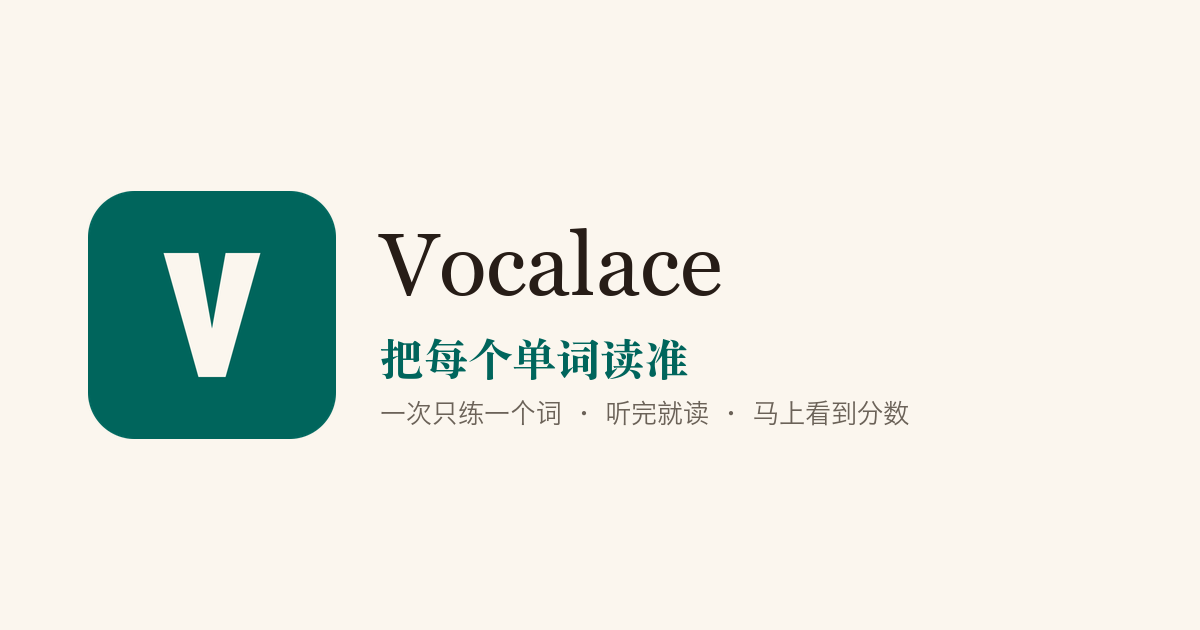
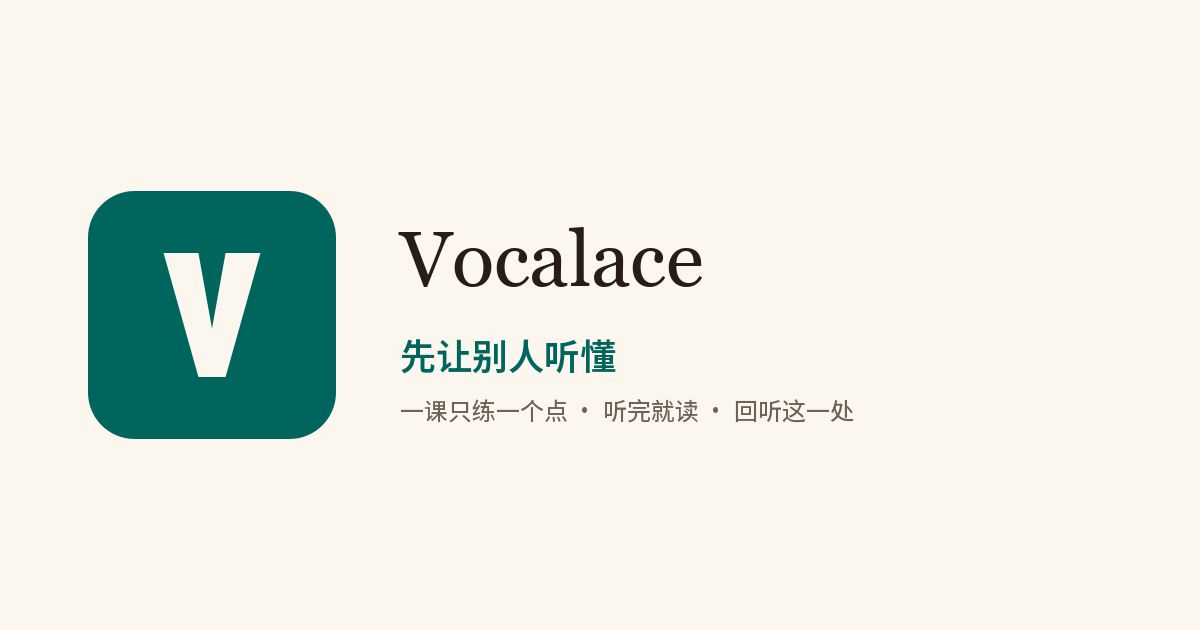
Update contact information and refine course content across multiple files. Change email addresses to reflect the new domain, remove outdated audio files, and enhance lesson descriptions for clarity. Adjust footer content to improve navigation and user experience.

Changed region(s): [[0.3083, 0.3619, 0.6167, 0.4825], [0.3392, 0.6333, 0.7708, 0.6937], [0.3083, 0.5429, 0.5858, 0.6032]]

diff --git a/src/content/docs/appendix/a-order.md b/src/content/docs/appendix/a-order.md
@@ -1,28 +1,74 @@
 ---
 title: '附录 A · 建议学习顺序'
-description: '十周学习地图：按周选重点，点进对应正课练'
+description: '十周里每周上哪几课。课名点进去就能练。'
 ---
 
-用法：按周选重点，点进对应正课练；跟不上就砍量，不换目标。
+先看 [开课说明](/0-intro/)。下面按周列出要上的课，一周里从上往下做，做完再进下一周。一课只练一个点。
 
-## 怎么用这张地图
+每天怎么练，看 [每天先跟再录](/12-practice/12-2/day/)：先跟一句，再录同一句，只改一处。从第 3 周起，还没分开的音记到 [错音表](/10-fluency/10-3/list/)。不确定卡在哪个音，用 [10.2 自查 /æ/](/10-fluency/10-2/ae/) 这一组对一下，再决定记哪一行。
 
-1. 每周只盯「本周重点」列里的点；正课入口点进去做完最小练习即可。
-2. 每天仍遵守 [12.2 每天先跟再录](/12-practice/12-2/day/)（约 10 分跟读 + 5 分录音对比）。
-3. 从第 3 周起维护 [个人错音表](/10-fluency/10-3/list/)；勾选来自 [10.2 诊断清单](/10-fluency/10-2/ae/)。
-4. 节奏吃紧时：保留「对比词 + 一句语流 + 录音」，场景/语法课可顺延一周。
+这一周做不完：音和句子的课留下，场景和语法的课挪到下一周。不换正在练的那个点。
 
-## 十周总表
+## 第 1–2 周 · 最常听错的音
 
-| 阶段 | 重点（一个点一次练） | 建议正课入口 |
-|------|----------------------|--------------|
-| 第 1–2 周 | /θ/ /ð/；/v/–/w/；/æ/–/e/；/ɪ/–/iː/；/r/ | [1.5 θ–s](/1-phonetics/1-5/th-s/) · [1.5 ð–d](/1-phonetics/1-5/th-d/) · [1.5 v–w](/1-phonetics/1-5/v-w/) · [1.1 æ–e](/1-phonetics/1-1/ae-vs-e/) · [1.1 iː–ɪ](/1-phonetics/1-1/i-vs-ih/) · [1.5 l–r](/1-phonetics/1-5/l-r/) |
-| 第 3–4 周 | /ə/、/ɝː/、闪音 /t̬/、/oʊ/、/ʊ/–/uː/；连读与 wanna/gonna | [1.2 ə](/1-phonetics/1-2/schwa/) · [1.2 ɝː](/1-phonetics/1-2/er/) · [1.7 T 闪音](/1-phonetics/1-7/flap/) · [1.3 oʊ](/1-phonetics/1-3/ow/) · [1.1 ʊ–uː](/1-phonetics/1-1/u-vs-uu/) · [3.1 口语缩略](/3-sentences/3-1/reduced/) · [4.1 听出缩略](/4-listening/4-1/reduced/) |
-| 第 5–6 周 | 句子重音与语调；精听缩略与闪音 | [3.2 陈述疑问](/3-sentences/3-2/contour/) · [3.2 重音改意思](/3-sentences/3-2/stress/) · [4.2 闪音听辨](/4-listening/4-2/flap/) · [4.3 精听四步](/4-listening/4-3/flow/) · [3.3 影子跟读](/3-sentences/3-3/shadow/) |
-| 第 7–8 周 | 冠词/单复数；美式搭配；数字时间 | [5.1 a/the](/5-grammar/5-1/a-the/) · [5.2 可数不可数](/5-grammar/5-2/count/) · [7.1 美式用词](/7-expressions/7-1/place/) · [7.2 take a](/7-expressions/7-2/take/) · [7.4 日期时间](/7-expressions/7-4/date/) |
-| 第 9–10 周 | 生活场景对话；复述与即兴 | [8.1 购物点餐问路](/8-scenarios/8-1/shop/) · [12.1 一条龙](/12-practice/12-1/chain/) · [9.2 复述](/9-passages/9-2/points/) · [9.3 即兴](/9-passages/9-3/time/) |
-| 持续 | 错音表 + 示范对照纠音 + 影子跟读；可加英美听辨意识 | [10.3 错音表](/10-fluency/10-3/list/) · [10.4 示范对照](/10-fluency/10-4/model/) · [10.4 镜子录音](/10-fluency/10-4/mirror/) · [11 一段只跟一种](/11-us-uk/stay/) · [12.3 进步标准](/12-practice/12-3/pairs/) |
+先把这几个音分开。think 不要像 sink，this 不要像 dis，very 的 v 要碰到牙齿。
 
-## 开课前先读
+- [think 和 sink：/θ/ vs /s/](/1-phonetics/1-5/th-s/)
+- [this 和 dis：/ð/ vs /d/](/1-phonetics/1-5/th-d/)
+- [very 和 wery：/v/ vs /w/](/1-phonetics/1-5/v-w/)
+- [cat 和 bed：/æ/ vs /e/](/1-phonetics/1-1/ae-vs-e/)
+- [ship 和 sheep：/iː/ vs /ɪ/](/1-phonetics/1-1/i-vs-ih/)
+- [right 和 light：/l/ vs /r/](/1-phonetics/1-5/l-r/)
 
-1. [开课说明](/0-intro/)（学什么、一课一个点、自检三条）
+## 第 3–4 周 · 轻读、卷舌、闪音
+
+about 的 a 要轻，bird 收成一个卷舌音，water 中间的 t 是闪音。go 要滑出去，book 不要拉成 food。然后能听出、也能说出 wanna 和 gonna。
+
+- [about 里那个轻短的 /ə/](/1-phonetics/1-2/schwa/)
+- [bird：/ɝː/](/1-phonetics/1-2/er/)
+- [water 的 T 闪音](/1-phonetics/1-7/flap/)
+- [go：/oʊ/](/1-phonetics/1-3/ow/)
+- [book 和 food：/ʊ/ vs /uː/](/1-phonetics/1-1/u-vs-uu/)
+- [口语里的 wanna、gonna](/3-sentences/3-1/reduced/)
+- [听的时候认出这些缩略](/4-listening/4-1/reduced/)
+
+## 第 5–6 周 · 重音、语调、精听
+
+实词要站出来，问句和陈述句的尾音不一样。听的时候能抓住闪音，再整段跟。
+
+- [陈述往下、疑问往上](/3-sentences/3-2/contour/)
+- [重音一换，意思就变](/3-sentences/3-2/stress/)
+- [听出 water 里的闪音](/4-listening/4-2/flap/)
+- [一小段按四步精听](/4-listening/4-3/flow/)
+- [影子跟读](/3-sentences/3-3/shadow/)
+
+## 第 7–8 周 · 冠词、美式说法、时间
+
+开口时知道用 a 还是 the，可数的加不加 -s。生活里的词用美式说法，日期和时间按美式读。
+
+- [对方还不知道，用 a](/5-grammar/5-1/a-the/)
+- [先看这个名词能不能数](/5-grammar/5-2/count/)
+- [电梯、人行道这些美式词](/7-expressions/7-1/place/)
+- [洗澡、休息用 take](/7-expressions/7-2/take/)
+- [日期和时间怎么读](/7-expressions/7-4/date/)
+
+## 第 9–10 周 · 场景、复述、即兴
+
+购物、点餐、问路分开练，再连着做一遍。然后听完能说出要点，不看稿也能说四句。
+
+- [问价、问码、结账](/8-scenarios/8-1/shop/)
+- [点餐、忌口、带走还是店里](/8-scenarios/8-1/order/)
+- [问路，并用自己的话重复](/8-scenarios/8-1/ask/)
+- [五个场景接起来](/12-practice/12-1/chain/)
+- [听完只说三个要点](/9-passages/9-2/points/)
+- [四句说完就停](/9-passages/9-3/time/)
+
+## 十周之后一直做
+
+错的音留在表上，对着单词录音只改一处。一段练习只跟一种口音。过关看对比词分没分开，不看感觉。
+
+- [错音记成一行](/10-fluency/10-3/list/)
+- [对着单词录音，只改一处](/10-fluency/10-4/model/)
+- [镜子、录音、跟读各管一件](/10-fluency/10-4/mirror/)
+- [一段练习只跟美式](/11-us-uk/stay/)
+- [对比词记下对了几对](/12-practice/12-3/pairs/)

diff --git a/src/content/docs/3-sentences/3-2/stress.md b/src/content/docs/3-sentences/3-2/stress.md
@@ -1,16 +1,16 @@
 ---
 title: "重音换词，意思就换"
 lesson: "第 3.2.2 课"
-description: "整句每个词一样响，对方听成另一个意思？本课用同一句，把重音换到 I、say、he、stole 上，各说一层意思。"
+description: "整句每个词一样响，对方听成另一个意思？本课用同一句，把重音换到 I、say、he、locked 上，各说一层意思。"
 ---
 
 语法没错，对方还是会问你到底在否定哪一件事。英语用一个词更响、更长，标出「我要更正的是这个」。每个词一样响，焦点就没了。
 
-这课只练一句：*I didn't say he stole the money.* 重音落在哪个词，否定的就是那个词。词里哪一拍重，见 [1.6.1](/1-phonetics/1-6/stress/)。陈述句里这个重音先抬一点再落下，不要一路升上去，那是 [上一课](/3-sentences/3-2/contour/) 的问句。
+这课只练一句：*I didn't say he locked the door.* 重音落在哪个词，否定的就是那个词。词里哪一拍重，见 [1.6.1](/1-phonetics/1-6/stress/)。陈述句里这个重音先抬一点再落下，不要一路升上去，那是 [上一课](/3-sentences/3-2/contour/) 的问句。
 
 句子没有整句录音，也没有「四种强调版」的录音。你自己换重音。
 
-这课目标：不看字，听自己的录音，能说出这一遍否定的是「谁说的」「说没说」「是不是他」还是「是不是偷」。
+这课目标：不看字，听自己的录音，能说出这一遍否定的是「谁说的」「说没说」「是不是他」还是「是不是锁上」。
 
 ## 口型
 
@@ -20,8 +20,8 @@ description: "整句每个词一样响，对方听成另一个意思？本课用
 
 ## 对比词
 
-基本句：*I didn't say he stole the money.*  
-/aɪ ˈdɪdnt seɪ hi stoʊl ðə ˈmʌni/
+基本句：*I didn't say he locked the door.*  
+/aɪ ˈdɪdnt seɪ hi lɑːkt ðə dɔːr/
 
 每一版只让一个词做上面三件事。
 
@@ -30,25 +30,25 @@ description: "整句每个词一样响，对方听成另一个意思？本课用
 | 1 | **I** | 不是我说的 | /aɪ/ 拉长，先起再落。*I* 没有词典录音，元音和 eye [🔊](/audio/words/eye.mp3) /aɪ/ 相同，不要把那条当成这句的重音示范 |
 | 2 | **say** | 我没说出口 | say [🔊](/audio/words/say.mp3) /seɪ/ 把 /eɪ/ 滑完 |
 | 3 | **he** | 不是他 | 强调时是 /hiː/，有 /h/。不强调时常常只剩很短的 /i/。he [🔊](/audio/words/he.mp3) 是完整的 /hiː/ |
-| 4 | **stole** | 不是「偷」这个动作 | stole [🔊](/audio/words/stole.mp3) /stoʊl/ 把 /oʊ/ 滑完。词尾是暗 L，见 [1.5.9](/1-phonetics/1-5/dark-l/) |
+| 4 | **locked** | 不是「锁上」这个动作 | lock [🔊](/audio/words/lock.mp3) /lɑːk/ 嘴张开、不圆唇。这句是 *locked* /lɑːkt/，见 [1.1.6](/1-phonetics/1-1/aa/) |
 
-*the money* 在这四版里都轻。money [🔊](/audio/words/money.mp3) /ˈmʌni/ 只用来对这个词本身。
+*the door* 在这四版里都轻。door [🔊](/audio/words/door.mp3) /dɔːr/ 只用来对这个词本身。
 
 ## 放进句子
 
 四版都是这一句，只换敲的那一下。
 
-**1.** ***I*** didn't say he stole the money.  
+**1.** ***I*** didn't say he locked the door.  
 有人以为是你传出去的。你否定的是「说话的人是我」。
 
-**2.** I didn't ***say*** he stole the money.  
-你否定的是「说出口」。写过、暗示过，这句没否认。
+**2.** I didn't ***say*** he locked the door.  
+你否定的是「说出口」。写过、点过头，这句没否认。
 
-**3.** I didn't say ***he*** stole the money.  
+**3.** I didn't say ***he*** locked the door.  
 你否定的是「那个人是他」。
 
-**4.** I didn't say he ***stole*** the money.  
-你否定的是「偷」。钱的事可以还在，动作不一定是偷。
+**4.** I didn't say he ***locked*** the door.  
+你否定的是「锁上」。门可以还关着，动作不一定是锁。
 
 说的时候，焦点词前后的词保持轻。不要为了强调把整句放慢。
 
@@ -80,7 +80,7 @@ description: "整句每个词一样响，对方听成另一个意思？本课用
 1. I /aɪ/  
 2. say /seɪ/  
 3. he /hiː/  
-4. stole /stoʊl/
+4. locked /lɑːkt/
 
 只改听出来的那一件：没拉长，或没有落下。然后放回句子里再录这一版。
 
@@ -96,14 +96,14 @@ description: "整句每个词一样响，对方听成另一个意思？本课用
 
 A. 话不是我说的  
 B. 那个人不是他  
-C. 动作不是偷  
+C. 动作不是锁上  
 D. 我根本没开口
 
 答案：**B**。
 
 **2. 开口**
 
-按这句中文说英文，并录音：「我没说出口（但也许暗示过）他偷了钱。」
+按这句中文说英文，并录音：「我没说出口（但也许写下来了）他把门锁上了。」
 
 回听 *say*：比旁边的词更长，音高先起再落。一路往上，就只改 *say*。
 

diff --git a/src/content/docs/appendix/b-topics.md b/src/content/docs/appendix/b-topics.md
@@ -3,19 +3,19 @@ title: '附录 B · 短视频选题对齐'
 description: '附录 B · 短视频选题对齐 · Vocalace 课程'
 ---
 
-一条只讲一个点，便于拆条：
+十二个音，各是一课。点课名进去练。整段安排见 [建议学习顺序](/appendix/a-order/)。
 
-| 序 | 选题 | 对比/要点 |
-|----|------|-----------|
-| 1 | think 不要读成 sink | /θ/–/s/ |
-| 2 | this 开头不是 /z/ 或 /d/ | /ð/ |
-| 3 | very：牙齿碰嘴唇 | /v/–/w/ |
-| 4 | cat 嘴比 bed 更大 | /æ/–/e/ |
-| 5 | ship 不是 sheep | /ɪ/–/iː/ |
-| 6 | right：舌尖不抵上齿龈 | /r/ |
-| 7 | better 中间 t 轻弹 | /t̬/ |
-| 8 | about 的 a 又轻又短 | /ə/ |
-| 9 | bird 是卷舌元音 | /ɝː/ |
-| 10 | go 要滑向短乌 | /oʊ/ |
-| 11 | book 不是 food | /ʊ/–/uː/ |
-| 12 | three：/θ/ 和 /r/ 都要有 | 辅音连缀 |
+| 序 | 选题 | 对比/要点 | 去哪一课 |
+|----|------|-----------|----------|
+| 1 | think 不要读成 sink | /θ/–/s/ | [/θ/ vs /s/](/1-phonetics/1-5/th-s/) |
+| 2 | this 开头不是 /z/ 或 /d/ | /ð/ | [/ð/ vs /d/](/1-phonetics/1-5/th-d/) |
+| 3 | very：牙齿碰嘴唇 | /v/–/w/ | [/v/ vs /w/](/1-phonetics/1-5/v-w/) |
+| 4 | cat 嘴比 bed 更大 | /æ/–/e/ | [/æ/ vs /e/](/1-phonetics/1-1/ae-vs-e/) |
+| 5 | ship 不是 sheep | /ɪ/–/iː/ | [/iː/ vs /ɪ/](/1-phonetics/1-1/i-vs-ih/) |
+| 6 | right：舌尖不抵上齿龈 | /r/ | [/l/ vs /r/](/1-phonetics/1-5/l-r/) |
+| 7 | better 中间 t 轻弹 | /t̬/ | [T 闪音](/1-phonetics/1-7/flap/) |
+| 8 | about 的 a 又轻又短 | /ə/ | [/ə/](/1-phonetics/1-2/schwa/) |
+| 9 | bird 是卷舌元音 | /ɝː/ | [/ɝː/](/1-phonetics/1-2/er/) |
+| 10 | go 要滑向短乌 | /oʊ/ | [/oʊ/](/1-phonetics/1-3/ow/) |
+| 11 | book 不是 food | /ʊ/–/uː/ | [/ʊ/ vs /uː/](/1-phonetics/1-1/u-vs-uu/) |
+| 12 | three：/θ/ 和 /r/ 都要有 | 辅音连缀 | [/θr/](/1-phonetics/1-5/th-r/) |

diff --git a/src/content/docs/appendix/c-checklist.md b/src/content/docs/appendix/c-checklist.md
@@ -3,7 +3,9 @@ title: '附录 C · 每课最小交付物'
 description: '附录 C · 每课最小交付物 · Vocalace 课程'
 ---
 
-每课固定产出 4 样：
+每课正文里都有这四部分。不知道先上哪一课，从 [建议学习顺序](/appendix/a-order/) 点进去。
+
+每课固定有这四部分：
 
 1. **一个点**（一个音素或一条规则）
 2. **三个对比/例词**

diff --git a/src/content/docs/9-passages/9-2/five.md b/src/content/docs/9-passages/9-2/five.md
@@ -32,6 +32,8 @@ first [🔊](/audio/words/first.mp3) /fɝːst/。then [🔊](/audio/words/then.m
 
 ## 对比词
 
+下面五句只练连接词的顺序，不是健康建议。
+
 三个要点是：美国人睡得比以前少；夜里看手机是一个原因；睡少会带到身体上。
 
 | 连接词放错 | 听感 |
